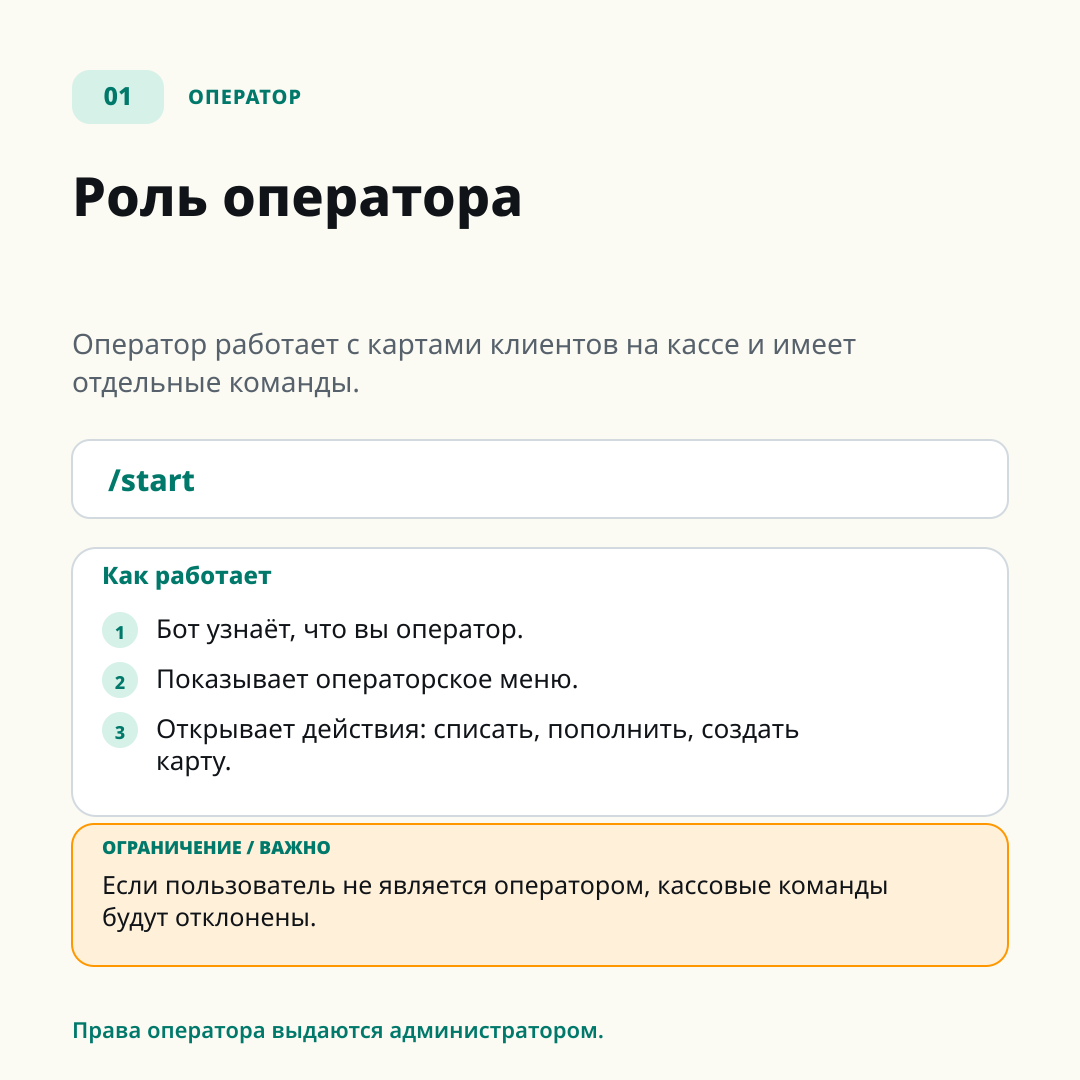
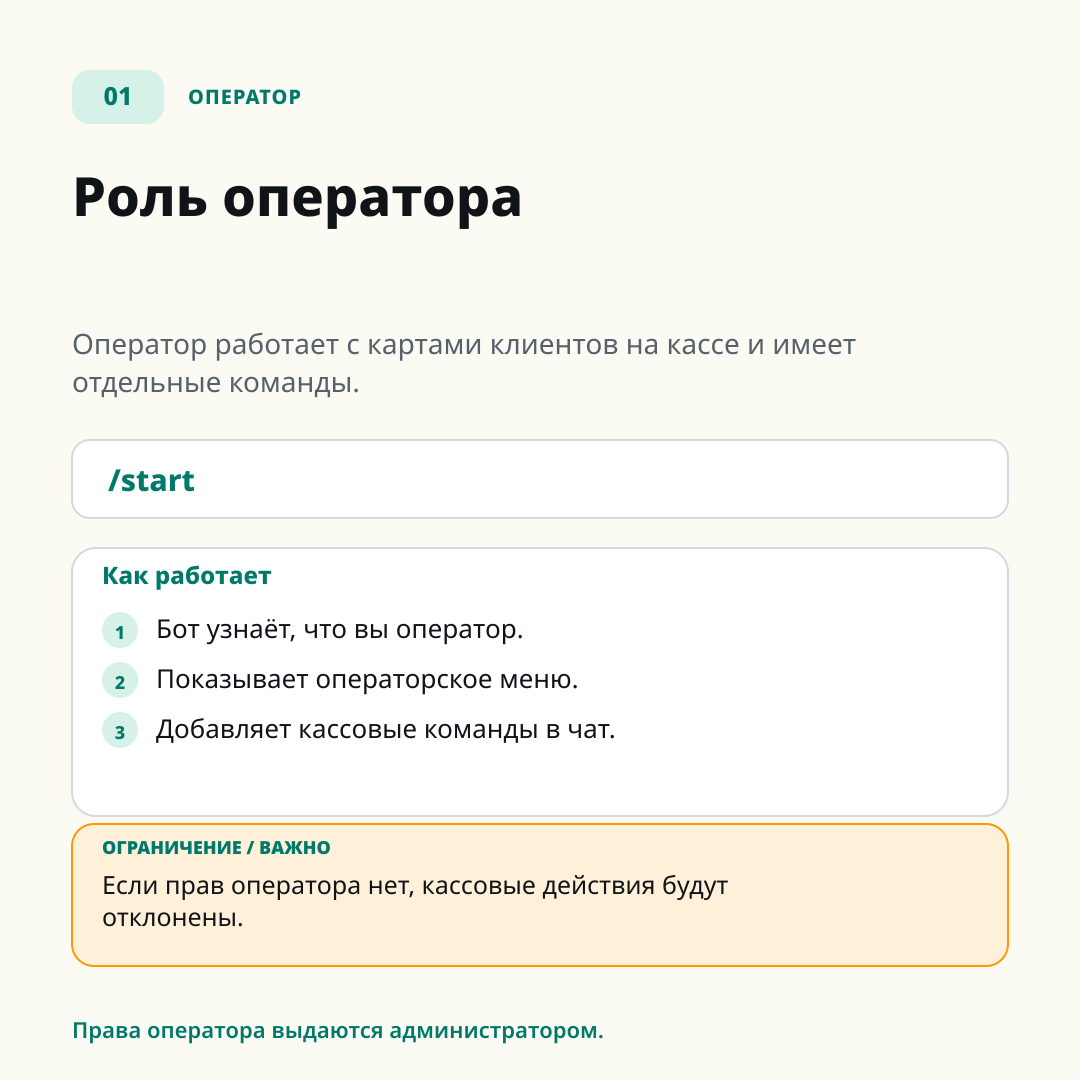
Update Telegram bot docs and cards

Changed region(s): [[0.0917, 0.7944, 0.825, 0.8556], [0.1528, 0.6722, 0.7333, 0.7333]]

diff --git a/docs/telegram-bot-ru.md b/docs/telegram-bot-ru.md
@@ -1,36 +1,45 @@
 # Telegram-бот
 
-Бот обслуживает два типа сценариев: клиентские действия с личной картой и операторские кассовые операции. Пользователь видит клиентский набор команд, а сотрудники с активными операторскими правами дополнительно получают кассовые команды в своём чате с ботом.
+Бот обслуживает два набора сценариев:
+
+- клиентские действия с личной или предъявительской картой;
+- операторские кассовые операции для сотрудников с активными правами.
+
+Код бота является источником правды для этой страницы: команды регистрируются в `src/bot/handlers/commands.ts`, reply-клавиатура собирается в `src/bot/handlers/keyboards.ts`, обработка кнопок находится в `src/bot/handlers/menu-handlers.ts`, а проверка операторских прав выполняется в `src/bot/handlers/access.ts`.
 
 ## Команды в меню Telegram
 
-Глобальное меню команд получает только клиентские команды:
+Глобальное меню Telegram получает только клиентские команды. Операторские команды публикуются отдельно в scope чата каждого активного оператора при настройке Bot API.
 
-| Команда | Назначение | Ограничения |
+### Клиентские команды
+
+| Команда | Что делает | Важные условия |
 | --- | --- | --- |
-| `/start` | Показать стартовое сообщение и reply-клавиатуру. | Для активного оператора показывается операторская клавиатура, для клиента — клиентская. |
-| `/balance [код]` | Показать баланс. | Без кода использует текущую привязанную карту. С кодом показывает публичный баланс карты. |
-| `/my_card` | Показать текущую карту клиента с QR и балансом. | Нужен Telegram account. Если карты нет, бот предлагает создать или привязать карту. |
-| `/create_my_card` | Создать личную карту или вернуть уже существующую. | Перед созданием нужна явная обработка персональных данных Telegram-аккаунта. У клиента может быть только одна текущая карта. |
-| `/link [код]` | Привязать существующую карту. | Перед привязкой нужна явная обработка персональных данных Telegram-аккаунта. После активного согласия бот запрашивает или получает код карты, привязывает карту и показывает баланс без дополнительного подтверждения. Если код не указан и QR Mini App настроен, бот просит сканировать QR. Если карта уже привязана к пользователю, бот показывает её и не начинает новую привязку. |
-| `/unlink [код]` | Отвязать карту. | Бот сначала показывает предупреждение. Отвязка считается отказом от дальнейшей обработки персональных данных для этой привязки, удаляет историю операций карты и затем возвращает QR/код/баланс. |
-| `/transfer [код]` | Создать одноразовый код передачи карты. | Без кода использует текущую карту. Перед созданием кода бот просит подтвердить передачу reply-клавиатурой. Передать можно только карту текущего владельца. |
-| `/accept_transfer <код_передачи>` | Принять карту по коду передачи. | Перед принятием нужна явная обработка персональных данных Telegram-аккаунта и отдельное подтверждение принятия reply-клавиатурой. Код должен существовать, не быть использованным и не истечь. При успешном принятии история операций прежнего владельца удаляется, баланс сохраняется. |
-| `/history [код]` | Показать последние операции. | Без кода использует текущую карту. С кодом история привязанной карты доступна владельцу или оператору; историю непривязанной карты может увидеть предъявитель кода. |
+| `/start` | Показывает приветствие и reply-клавиатуру. | Активный оператор получает операторскую клавиатуру; остальные пользователи получают клиентскую клавиатуру с учетом наличия привязанной карты. |
+| `/balance [код]` | Показывает баланс карты. | Без кода использует текущую привязанную карту. С кодом показывает публичный баланс указанной карты. Если отправить код карты обычным сообщением вне другого сценария, бот тоже отвечает балансом. |
+| `/my_card` | Показывает текущую личную карту с QR, кодом и балансом. | Нужен Telegram-аккаунт. Если личной карты нет, бот предлагает создать карту или привязать существующую. |
+| `/create_my_card` | Создаёт личную карту или показывает уже существующую. | Перед созданием нужно согласие на обработку данных Telegram-аккаунта. У пользователя может быть только одна текущая личная карта. |
+| `/link [код]` | Привязывает существующую карту к Telegram-аккаунту. | Перед привязкой нужно согласие. С кодом бот привязывает карту сразу; без кода предлагает QR Mini App или ручной ввод. Если карта уже привязана к этому пользователю, бот показывает её и не начинает новую привязку. |
+| `/unlink [код]` | Отвязывает карту от Telegram-аккаунта. | Перед отвязкой бот просит подтверждение. Отвязка считается отказом от дальнейшей обработки данных для этой привязки, удаляет историю операций карты в боте и затем показывает QR, код и баланс. |
+| `/transfer [код]` | Создаёт одноразовый код передачи карты другому человеку. | Без кода используется текущая личная карта. Перед созданием кода бот просит подтверждение. Передать можно только карту текущего владельца. |
+| `/accept_transfer <код_передачи>` | Принимает карту по одноразовому коду передачи. | Перед принятием нужно согласие и отдельное подтверждение. Код должен существовать, не быть использованным и не истечь. После принятия история операций прежнего владельца удаляется в боте, баланс карты сохраняется. |
+| `/history [код]` | Показывает до 10 последних операций и статусы чеков. | Без кода использует текущую личную карту. С кодом история привязанной карты доступна владельцу или оператору; историю непривязанной карты может увидеть предъявитель кода. |
 
-Операторские команды публикуются отдельно в scope чата каждого активного оператора:
+### Операторские команды
 
-| Команда | Назначение | Ограничения |
+Операторские команды доступны только активным операторам. Даже если команда или кнопка видна в интерфейсе, перед запуском кассового действия бот повторно проверяет права.
+
+| Команда | Что делает | Важные условия |
 | --- | --- | --- |
-| `/debit <код> <сумма> [описание]` | Списать сумму с карты напрямую. | Только активный оператор. Сумма должна быть больше нуля. После операции бот просит чек. |
-| `/debit <сумма> [описание]` | Начать списание через QR-сканирование карты. | Только активный оператор. Требует настроенный QR Mini App для кнопки сканирования; иначе бот просит ввести код вручную. |
-| `/credit <код> <сумма> [описание]` | Пополнить карту напрямую. | Только активный оператор. Сумма должна быть больше нуля. После операции бот просит чек. |
-| `/credit <сумма> [описание]` | Начать пополнение через QR-сканирование карты. | Только активный оператор. Требует настроенный QR Mini App для кнопки сканирования; иначе бот просит ввести код вручную. |
-| `/create_gift_card <начальная_сумма>` | Создать подарочную карту. | Только активный оператор. Начальная сумма должна быть больше нуля. После создания бот просит чек. |
+| `/debit <код> <сумма> [описание]` | Списывает сумму с карты напрямую. | Только активный оператор. Сумма должна быть больше нуля, баланс карты должен быть достаточным. После операции бот просит чек. |
+| `/debit <сумма> [описание]` | Начинает списание через QR-сканирование карты. | Только активный оператор. Если QR Mini App не настроен, бот просит ввести код вручную. |
+| `/credit <код> <сумма> [описание]` | Пополняет карту напрямую. | Только активный оператор. Сумма должна быть больше нуля. После операции бот просит чек. |
+| `/credit <сумма> [описание]` | Начинает пополнение через QR-сканирование карты. | Только активный оператор. Если QR Mini App не настроен, бот просит ввести код вручную. |
+| `/create_gift_card <начальная_сумма>` | Создаёт подарочную карту с начальным балансом. | Только активный оператор. Сумма должна быть больше нуля. После создания бот просит чек. |
 
 ## Reply-клавиатура
 
-Reply-клавиатура появляется после `/start` и в сценариях QR-сканирования.
+Reply-клавиатура появляется после `/start` и в сценариях QR-сканирования. Она помогает пользователю выбрать действие, но не заменяет проверки доступа.
 
 Для клиента всегда доступны:
 
@@ -47,40 +56,54 @@ Reply-клавиатура появляется после `/start` и в сце
 - `➕ Создать мою карту`
 - `🔗 Привязать карту`
 
-Если состояние привязки определить не удалось, бот показывает оба варианта: создание, привязку и отвязку. Это запасной режим для нештатной ситуации.
+Если состояние привязки определить не удалось, бот показывает запасной набор: создание, привязку и отвязку.
 
-Для активного оператора reply-клавиатура содержит клиентские действия, персональные действия и операторские действия. В отличие от клиентской клавиатуры, оператор видит `➕ Создать мою карту`, `🔗 Привязать карту` и `⛓ Отвязать карту` одновременно, потому что основной операторский сценарий не зависит от состояния личной карты в Telegram.
+Активный оператор видит клиентские действия, персональные действия и кассовые действия одновременно:
 
+- `💳 Баланс`
+- `📋 История`
+- `🎟 Моя карта`
+- `➕ Создать мою карту`
+- `🔗 Привязать карту`
+- `⛓ Отвязать карту`
 - `➖ Списать`
 - `➕ Пополнить`
 - `➕ Создать подарочную карту`
 
-Операторские кнопки всё равно проверяют права в момент действия; если сотрудник больше не является активным оператором, операция не запускается.
+Операторские кнопки запускают те же проверки, что и команды. Если сотрудник потерял активные права, списание, пополнение и создание подарочной карты будут отклонены.
 
-## Согласие на обработку данных Telegram-аккаунта
+## Согласие и личная карта
 
-Личные сценарии, которые привязывают карту к Telegram-аккаунту, требуют явного согласия в самом боте:
+Личные сценарии, которые связывают карту с Telegram-аккаунтом, требуют явного согласия в самом боте:
 
 - `/create_my_card`;
 - `/link` и `/link <код>`;
 - привязка через reply-клавиатуру или QR Mini App;
 - `/accept_transfer <код_передачи>`.
 
-В запросе согласия бот прямо сообщает, что хранит и обрабатывает данные Telegram-аккаунта, чтобы связать карту с аккаунтом и показывать личную карту, баланс, QR и приватную историю операций.
+В запросе согласия бот объясняет, что хранит и обрабатывает данные Telegram-аккаунта, чтобы связать карту с аккаунтом и показывать личную карту, баланс, QR и приватную историю операций.
 
-Если пользователь нажимает «Не согласен», бот не создаёт и не привязывает личную карту в Telegram. Публичная проверка баланса по коду карты остаётся доступной: можно использовать `/balance <код>` или отправить код карты сообщением.
+Если пользователь нажимает `❌ Не согласен`, бот не создаёт и не привязывает личную карту. Публичная проверка баланса по коду остаётся доступной через `/balance <код>` или отправку кода карты сообщением.
 
-Если согласие уже было дано, пользовательский путь отказа от дальнейшей обработки для существующей привязки — `/unlink` или кнопка «Отвязать карту». Перед отвязкой бот предупреждает, что история операций по карте будет удалена. После подтверждения бот удаляет историю операций карты и показывает QR, код и баланс, чтобы пользователь мог сохранить предъявительский доступ.
+Если согласие уже было дано, пользовательский путь отказа от дальнейшей обработки для существующей привязки — `/unlink` или кнопка `⛓ Отвязать карту`. Перед отвязкой бот предупреждает, что история операций по карте будет удалена. После подтверждения бот показывает QR, код и баланс, чтобы пользователь мог сохранить предъявительский доступ.
 
-После активного согласия бот всё равно запрашивает отдельное подтверждение действий передачи: создания кода передачи и принятия передачи. Это подтверждение не заменяет согласие на обработку персональных данных; оно фиксирует намерение выполнить конкретное действие. При принятии передачи история операций прежнего владельца удаляется, но текущий баланс карты сохраняется.
+Передача карты имеет отдельное подтверждение действия:
 
-## QR Mini App
+- `/transfer [код]` просит подтвердить создание кода передачи;
+- `/accept_transfer <код_передачи>` просит подтвердить принятие карты.
 
-QR Mini App используется для сканирования кодов карт и чеков, когда сканер настроен для бота.
+Это подтверждение не заменяет согласие на обработку данных. При принятии передачи история операций прежнего владельца удаляется в боте, текущий баланс карты сохраняется.
 
-Если сканер не настроен, бот не показывает кнопку сканирования и отвечает текстом с ручным вариантом: пользователь или оператор вводит код карты или причину пропуска чека сообщением.
+## QR Mini App и ручной ввод
 
-QR карты содержит публичный код карты. QR чеков разбирается как фискальный QR; если чек не удалось прочитать или приложить, оператор может отправить причину пропуска.
+QR Mini App используется для сканирования кодов карт и фискальных QR чеков, когда сканер настроен для бота.
+
+Если сканер не настроен, бот не показывает кнопку сканирования и отвечает ручным вариантом:
+
+- пользователь или оператор вводит код карты сообщением;
+- оператор вводит причину пропуска чека сообщением.
+
+QR карты содержит публичный код карты. По этому коду можно проверить публичный баланс. Для истории привязанной карты бот проверяет, что запрос делает владелец или оператор.
 
 ## Чеки после операторских операций
 
@@ -91,4 +114,13 @@ QR карты содержит публичный код карты. QR чеко
 - отсканировать QR бумажного или электронного фискального чека;
 - отправить причину пропуска: `нечитаемый QR`, `чек потерян`, `касса без QR`, `техническая ошибка`, `другое <комментарий>`.
 
-Статусы чеков отображаются в истории операций. Клиент видит статус проверки и ссылку на чек, когда она доступна; причины пропуска и комментарии предназначены для операторского или административного разбора.
+Для причины `другое` комментарий обязателен. Если чек уже был привязан к другой операции, бот не прикрепляет дубликат.
+
+Статусы чеков отображаются в истории операций:
+
+- `Чек подтвержден`;
+- `Чек приложен`;
+- `Чек не прошел проверку`;
+- `Чек не приложен`.
+
+Клиент видит статус проверки и ссылку на чек, когда она доступна. Причины пропуска и комментарии предназначены для операторского или административного разбора.
